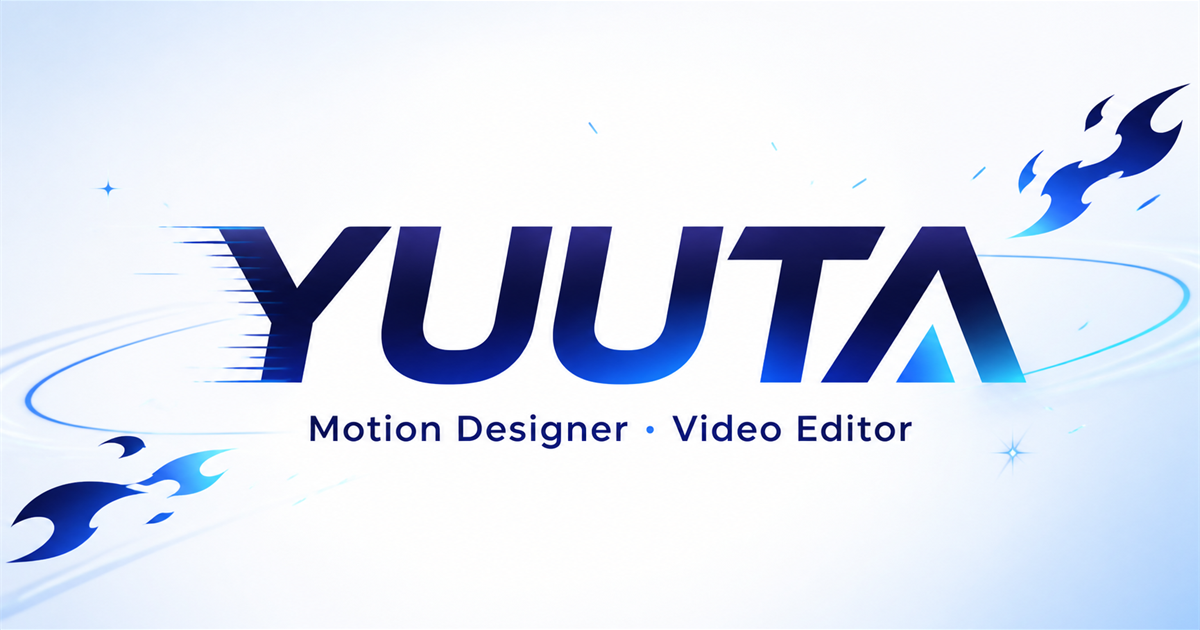
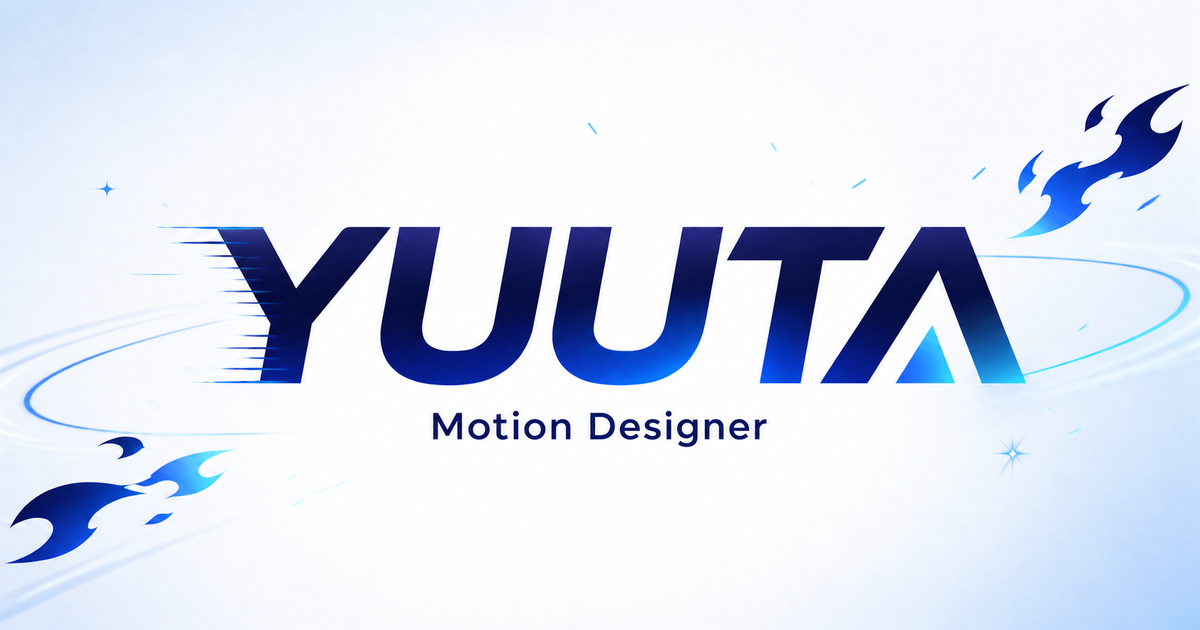
Finalize Yuuta Motion portfolio copy

diff --git a/db/content.ts b/db/content.ts
@@ -11,10 +11,10 @@ async function database(): Promise<D1Database> {
 
 const defaultSettings: SiteSettings = {
   name: 'Võ Gia Huy', stageName: 'Yuuta',
-  roleEn: 'Motion Designer · Video Editor', roleVi: 'Thiết kế chuyển động · Dựng phim',
+  roleEn: 'Motion Designer', roleVi: 'Thiết kế chuyển động',
   headlineEn: 'I turn ideas into motion people remember.', headlineVi: 'Tôi biến ý tưởng thành chuyển động đáng nhớ.',
-  bioEn: 'I am Võ Gia Huy, also known as Yuuta — a motion designer and video editor based in Vietnam. I create energetic motion systems, anime-inspired music visuals and AI-powered commercial stories.',
-  bioVi: 'Tôi là Võ Gia Huy, nghệ danh Yuuta — Motion Designer và Video Editor tại Việt Nam. Tôi sáng tạo hệ thống motion giàu năng lượng, hình ảnh âm nhạc lấy cảm hứng từ anime và video quảng cáo bằng AI.',
+  bioEn: 'I am Võ Gia Huy, also known as Yuuta — a motion designer based in Vietnam. I create energetic motion systems, anime-inspired music visuals and AI-powered commercial stories.',
+  bioVi: 'Tôi là Võ Gia Huy, nghệ danh Yuuta — Motion Designer tại Việt Nam. Tôi sáng tạo hệ thống motion giàu năng lượng, hình ảnh âm nhạc lấy cảm hứng từ anime và video quảng cáo bằng AI.',
   email: 'vogiahuy141003@gmail.com', discord: 'yuuta_1410', phone: '0866406341',
 };
 
@@ -66,6 +66,16 @@ export async function ensureDatabase() {
     defaultSettings.name, defaultSettings.stageName, defaultSettings.roleEn, defaultSettings.roleVi,
     defaultSettings.headlineEn, defaultSettings.headlineVi, defaultSettings.bioEn, defaultSettings.bioVi,
     defaultSettings.email, defaultSettings.discord, defaultSettings.phone, now,
+  ).run();
+
+  await db.prepare(`UPDATE site_settings SET
+    role_en = ?, role_vi = ?, bio_en = ?, bio_vi = ?, updated_at = ?
+    WHERE id = 1
+      AND role_en = 'Motion Designer · Video Editor'
+      AND role_vi = 'Thiết kế chuyển động · Dựng phim'
+  `).bind(
+    defaultSettings.roleEn, defaultSettings.roleVi, defaultSettings.bioEn,
+    defaultSettings.bioVi, now,
   ).run();
 
   await db.batch(defaultSocials.map((social) => db.prepare(

diff --git a/components/portfolio-client.tsx b/components/portfolio-client.tsx
@@ -73,7 +73,7 @@ const ui = {
       },
       {
         q: 'What kinds of videos can you create?',
-        a: 'Motion graphics: SaaS style, kinetic typography and explainers. MV Edit: anime, manga and lyric videos. AI Video: commercials, generative video and full AI production.',
+        a: 'Motion Graphics: Logo Intros, SaaS Explainer Videos, Kinetic Typography... MV Edit: Anime MVs, Manga Animation, Lyric Videos... AI Video: Short Commercials, Short Concept Visuals, fully AI-generated short videos...',
       },
       {
         q: 'I have another question.',
@@ -112,7 +112,7 @@ const ui = {
       },
       {
         q: 'Bạn có thể tạo ra những loại video nào?',
-        a: 'Motion graphics gồm SaaS style, kinetic typography và explainer. MV Edit gồm anime, manga và lyric video. AI Video gồm quảng cáo, video tạo sinh và sản xuất hoàn toàn bằng AI.',
+        a: 'Motion Graphics: Logo Intro, SaaS Explainer Video, Kinetic Typography... MV Edit: Anime MV, Manga Animation, Lyric Video... AI Video: Quảng cáo ngắn, Concept Visual ngắn, video ngắn được tạo hoàn toàn bằng AI...',
       },
       {
         q: 'Tôi có một câu hỏi khác.',

diff --git a/app/layout.tsx b/app/layout.tsx
@@ -19,17 +19,17 @@ export async function generateMetadata(): Promise<Metadata> {
 
   return {
     metadataBase: new URL(`${protocol}://${safeHost}`),
-    title: 'Yuuta — Motion Designer & Video Editor',
-    description: 'Portfolio of Võ Gia Huy (Yuuta), motion designer and video editor in Vietnam.',
+    title: 'Yuuta — Motion Designer',
+    description: 'Portfolio of Võ Gia Huy (Yuuta), a motion designer based in Vietnam.',
     openGraph: {
-      title: 'Yuuta — Motion Designer · Video Editor',
+      title: 'Yuuta — Motion Designer',
       description: 'Motion graphics, MV edits and AI-powered visual stories by Võ Gia Huy (Yuuta).',
       type: 'website',
-      images: [{ url: '/og.png', width: 1200, height: 630, alt: 'Yuuta — Motion Designer · Video Editor' }],
+      images: [{ url: '/og.png', width: 1200, height: 630, alt: 'Yuuta — Motion Designer' }],
     },
     twitter: {
       card: 'summary_large_image',
-      title: 'Yuuta — Motion Designer · Video Editor',
+      title: 'Yuuta — Motion Designer',
       description: 'Motion graphics, MV edits and AI-powered visual stories by Võ Gia Huy (Yuuta).',
       images: ['/og.png'],
     },
